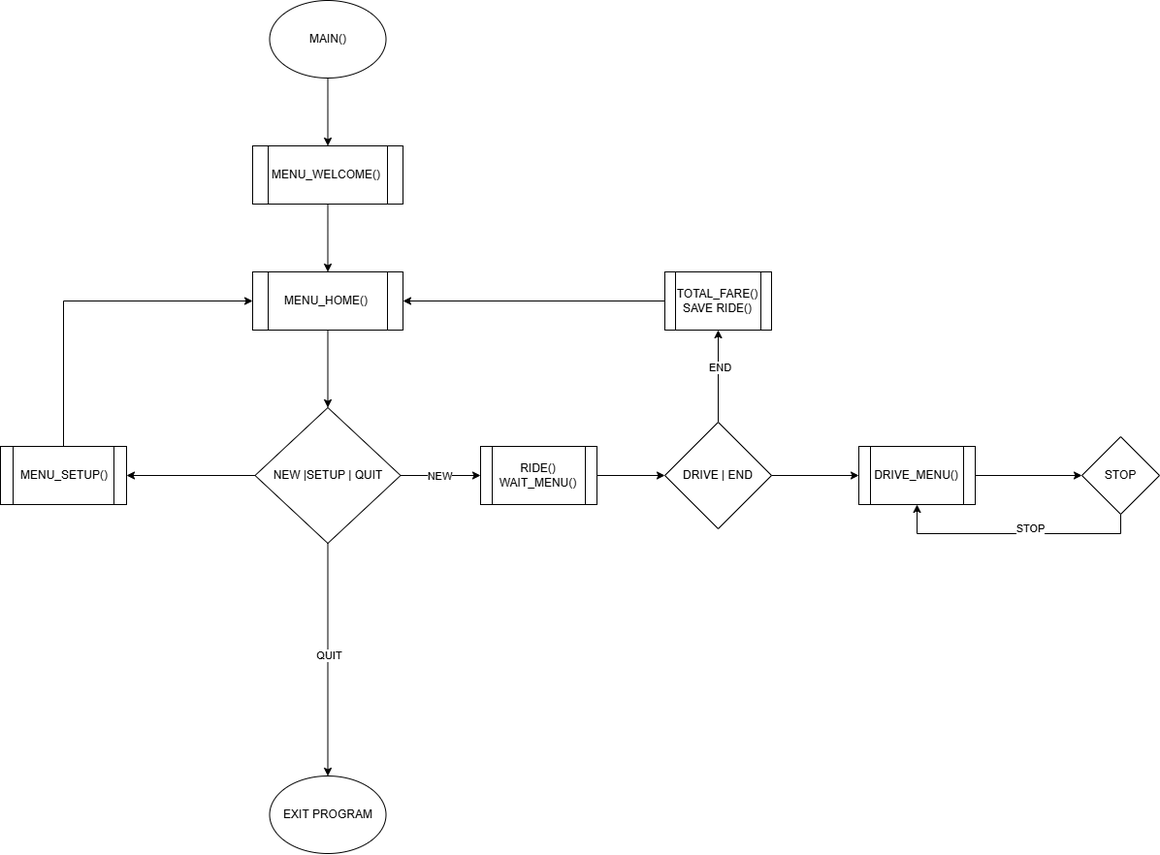
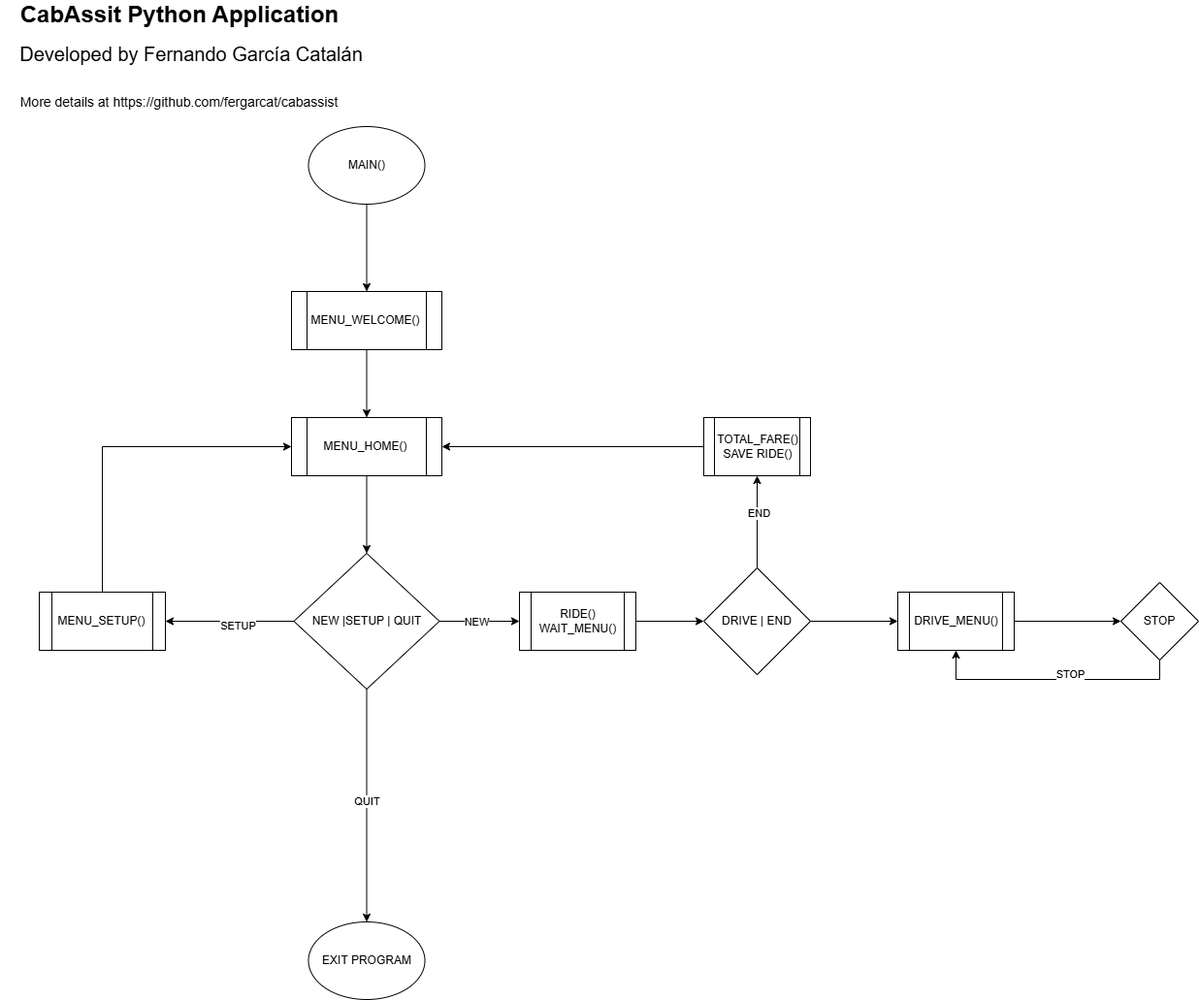
doc: flowchart update

diff --git a/CabAssist-FlowChart.html b/CabAssist-FlowChart.html
@@ -6,7 +6,7 @@
 <meta charset="utf-8"/>
 </head>
 <body>
-<div class="mxgraph" style="max-width:100%;border:1px solid transparent;" data-mxgraph="{&quot;highlight&quot;:&quot;#0000ff&quot;,&quot;nav&quot;:true,&quot;resize&quot;:true,&quot;xml&quot;:&quot;&lt;mxfile host=\&quot;app.diagrams.net\&quot; agent=\&quot;Mozilla/5.0 (Windows NT 10.0; Win64; x64) AppleWebKit/537.36 (KHTML, like Gecko) Chrome/132.0.0.0 Safari/537.36\&quot; version=\&quot;26.0.12\&quot;&gt;&lt;diagram name=\&quot;Page-1\&quot; id=\&quot;c7558073-3199-34d8-9f00-42111426c3f3\&quot;&gt;&lt;mxGraphModel dx=\&quot;2269\&quot; dy=\&quot;1200\&quot; grid=\&quot;1\&quot; gridSize=\&quot;10\&quot; guides=\&quot;1\&quot; tooltips=\&quot;1\&quot; connect=\&quot;1\&quot; arrows=\&quot;1\&quot; fold=\&quot;1\&quot; page=\&quot;1\&quot; pageScale=\&quot;1\&quot; pageWidth=\&quot;1654\&quot; pageHeight=\&quot;1169\&quot; background=\&quot;none\&quot; math=\&quot;0\&quot; shadow=\&quot;0\&quot;&gt;&lt;root&gt;&lt;mxCell id=\&quot;0\&quot;/&gt;&lt;mxCell id=\&quot;1\&quot; parent=\&quot;0\&quot;/&gt;&lt;mxCell id=\&quot;9vErsCvLsgAiDi58W-37-96\&quot; value=\&quot;MAIN()\&quot; style=\&quot;ellipse;whiteSpace=wrap;html=1;fontSize=12;\&quot; vertex=\&quot;1\&quot; parent=\&quot;1\&quot;&gt;&lt;mxGeometry x=\&quot;377.5\&quot; y=\&quot;80\&quot; width=\&quot;120\&quot; height=\&quot;80\&quot; as=\&quot;geometry\&quot;/&gt;&lt;/mxCell&gt;&lt;mxCell id=\&quot;9vErsCvLsgAiDi58W-37-137\&quot; style=\&quot;edgeStyle=orthogonalEdgeStyle;rounded=0;orthogonalLoop=1;jettySize=auto;html=1;exitX=0;exitY=0.5;exitDx=0;exitDy=0;\&quot; edge=\&quot;1\&quot; parent=\&quot;1\&quot; source=\&quot;9vErsCvLsgAiDi58W-37-99\&quot; target=\&quot;9vErsCvLsgAiDi58W-37-136\&quot;&gt;&lt;mxGeometry relative=\&quot;1\&quot; as=\&quot;geometry\&quot;/&gt;&lt;/mxCell&gt;&lt;mxCell id=\&quot;9vErsCvLsgAiDi58W-37-99\&quot; value=\&quot;NEW |SETUP | QUIT\&quot; style=\&quot;rhombus;whiteSpace=wrap;html=1;\&quot; vertex=\&quot;1\&quot; parent=\&quot;1\&quot;&gt;&lt;mxGeometry x=\&quot;362.5\&quot; y=\&quot;500\&quot; width=\&quot;150\&quot; height=\&quot;140\&quot; as=\&quot;geometry\&quot;/&gt;&lt;/mxCell&gt;&lt;mxCell id=\&quot;9vErsCvLsgAiDi58W-37-100\&quot; value=\&quot;EXIT PROGRAM\&quot; style=\&quot;ellipse;whiteSpace=wrap;html=1;\&quot; vertex=\&quot;1\&quot; parent=\&quot;1\&quot;&gt;&lt;mxGeometry x=\&quot;377.5\&quot; y=\&quot;880\&quot; width=\&quot;120\&quot; height=\&quot;80\&quot; as=\&quot;geometry\&quot;/&gt;&lt;/mxCell&gt;&lt;mxCell id=\&quot;9vErsCvLsgAiDi58W-37-101\&quot; value=\&quot;\&quot; style=\&quot;endArrow=classic;html=1;rounded=0;exitX=0.5;exitY=1;exitDx=0;exitDy=0;entryX=0.5;entryY=0;entryDx=0;entryDy=0;\&quot; edge=\&quot;1\&quot; parent=\&quot;1\&quot; source=\&quot;9vErsCvLsgAiDi58W-37-96\&quot; target=\&quot;9vErsCvLsgAiDi58W-37-119\&quot;&gt;&lt;mxGeometry width=\&quot;50\&quot; height=\&quot;50\&quot; relative=\&quot;1\&quot; as=\&quot;geometry\&quot;&gt;&lt;mxPoint x=\&quot;495\&quot; y=\&quot;160\&quot; as=\&quot;sourcePoint\&quot;/&gt;&lt;mxPoint x=\&quot;420\&quot; y=\&quot;220\&quot; as=\&quot;targetPoint\&quot;/&gt;&lt;/mxGeometry&gt;&lt;/mxCell&gt;&lt;mxCell id=\&quot;9vErsCvLsgAiDi58W-37-104\&quot; value=\&quot;\&quot; style=\&quot;endArrow=classic;html=1;rounded=0;exitX=0.5;exitY=1;exitDx=0;exitDy=0;entryX=0.5;entryY=0;entryDx=0;entryDy=0;\&quot; edge=\&quot;1\&quot; parent=\&quot;1\&quot; source=\&quot;9vErsCvLsgAiDi58W-37-119\&quot; target=\&quot;9vErsCvLsgAiDi58W-37-120\&quot;&gt;&lt;mxGeometry width=\&quot;50\&quot; height=\&quot;50\&quot; relative=\&quot;1\&quot; as=\&quot;geometry\&quot;&gt;&lt;mxPoint x=\&quot;420\&quot; y=\&quot;280\&quot; as=\&quot;sourcePoint\&quot;/&gt;&lt;mxPoint x=\&quot;420\&quot; y=\&quot;360\&quot; as=\&quot;targetPoint\&quot;/&gt;&lt;/mxGeometry&gt;&lt;/mxCell&gt;&lt;mxCell id=\&quot;9vErsCvLsgAiDi58W-37-105\&quot; value=\&quot;\&quot; style=\&quot;endArrow=classic;html=1;rounded=0;exitX=0.5;exitY=1;exitDx=0;exitDy=0;entryX=0.5;entryY=0;entryDx=0;entryDy=0;\&quot; edge=\&quot;1\&quot; parent=\&quot;1\&quot; source=\&quot;9vErsCvLsgAiDi58W-37-120\&quot; target=\&quot;9vErsCvLsgAiDi58W-37-99\&quot;&gt;&lt;mxGeometry width=\&quot;50\&quot; height=\&quot;50\&quot; relative=\&quot;1\&quot; as=\&quot;geometry\&quot;&gt;&lt;mxPoint x=\&quot;420\&quot; y=\&quot;420\&quot; as=\&quot;sourcePoint\&quot;/&gt;&lt;mxPoint x=\&quot;585\&quot; y=\&quot;410\&quot; as=\&quot;targetPoint\&quot;/&gt;&lt;/mxGeometry&gt;&lt;/mxCell&gt;&lt;mxCell id=\&quot;9vErsCvLsgAiDi58W-37-106\&quot; value=\&quot;\&quot; style=\&quot;endArrow=classic;html=1;rounded=0;exitX=0.5;exitY=1;exitDx=0;exitDy=0;entryX=0.5;entryY=0;entryDx=0;entryDy=0;\&quot; edge=\&quot;1\&quot; parent=\&quot;1\&quot; source=\&quot;9vErsCvLsgAiDi58W-37-99\&quot; target=\&quot;9vErsCvLsgAiDi58W-37-100\&quot;&gt;&lt;mxGeometry width=\&quot;50\&quot; height=\&quot;50\&quot; relative=\&quot;1\&quot; as=\&quot;geometry\&quot;&gt;&lt;mxPoint x=\&quot;485\&quot; y=\&quot;630\&quot; as=\&quot;sourcePoint\&quot;/&gt;&lt;mxPoint x=\&quot;535\&quot; y=\&quot;580\&quot; as=\&quot;targetPoint\&quot;/&gt;&lt;/mxGeometry&gt;&lt;/mxCell&gt;&lt;mxCell id=\&quot;9vErsCvLsgAiDi58W-37-122\&quot; value=\&quot;QUIT\&quot; style=\&quot;edgeLabel;html=1;align=center;verticalAlign=middle;resizable=0;points=[];\&quot; vertex=\&quot;1\&quot; connectable=\&quot;0\&quot; parent=\&quot;9vErsCvLsgAiDi58W-37-106\&quot;&gt;&lt;mxGeometry x=\&quot;-0.0474\&quot; relative=\&quot;1\&quot; as=\&quot;geometry\&quot;&gt;&lt;mxPoint as=\&quot;offset\&quot;/&gt;&lt;/mxGeometry&gt;&lt;/mxCell&gt;&lt;mxCell id=\&quot;9vErsCvLsgAiDi58W-37-113\&quot; style=\&quot;edgeStyle=orthogonalEdgeStyle;rounded=0;orthogonalLoop=1;jettySize=auto;html=1;exitX=1;exitY=0.5;exitDx=0;exitDy=0;entryX=0;entryY=0.5;entryDx=0;entryDy=0;\&quot; edge=\&quot;1\&quot; parent=\&quot;1\&quot; source=\&quot;9vErsCvLsgAiDi58W-37-121\&quot; target=\&quot;9vErsCvLsgAiDi58W-37-112\&quot;&gt;&lt;mxGeometry relative=\&quot;1\&quot; as=\&quot;geometry\&quot;&gt;&lt;mxPoint x=\&quot;708\&quot; y=\&quot;570\&quot; as=\&quot;sourcePoint\&quot;/&gt;&lt;/mxGeometry&gt;&lt;/mxCell&gt;&lt;mxCell id=\&quot;9vErsCvLsgAiDi58W-37-108\&quot; value=\&quot;\&quot; style=\&quot;endArrow=classic;html=1;rounded=0;exitX=1;exitY=0.5;exitDx=0;exitDy=0;entryX=0;entryY=0.5;entryDx=0;entryDy=0;\&quot; edge=\&quot;1\&quot; parent=\&quot;1\&quot; source=\&quot;9vErsCvLsgAiDi58W-37-99\&quot; target=\&quot;9vErsCvLsgAiDi58W-37-121\&quot;&gt;&lt;mxGeometry width=\&quot;50\&quot; height=\&quot;50\&quot; relative=\&quot;1\&quot; as=\&quot;geometry\&quot;&gt;&lt;mxPoint x=\&quot;505\&quot; y=\&quot;520\&quot; as=\&quot;sourcePoint\&quot;/&gt;&lt;mxPoint x=\&quot;588\&quot; y=\&quot;570\&quot; as=\&quot;targetPoint\&quot;/&gt;&lt;/mxGeometry&gt;&lt;/mxCell&gt;&lt;mxCell id=\&quot;9vErsCvLsgAiDi58W-37-116\&quot; value=\&quot;NEW\&quot; style=\&quot;edgeLabel;html=1;align=center;verticalAlign=middle;resizable=0;points=[];\&quot; vertex=\&quot;1\&quot; connectable=\&quot;0\&quot; parent=\&quot;9vErsCvLsgAiDi58W-37-108\&quot;&gt;&lt;mxGeometry x=\&quot;-0.062\&quot; relative=\&quot;1\&quot; as=\&quot;geometry\&quot;&gt;&lt;mxPoint x=\&quot;-1\&quot; as=\&quot;offset\&quot;/&gt;&lt;/mxGeometry&gt;&lt;/mxCell&gt;&lt;mxCell id=\&quot;9vErsCvLsgAiDi58W-37-132\&quot; style=\&quot;edgeStyle=orthogonalEdgeStyle;rounded=0;orthogonalLoop=1;jettySize=auto;html=1;exitX=0.5;exitY=0;exitDx=0;exitDy=0;entryX=0.5;entryY=1;entryDx=0;entryDy=0;\&quot; edge=\&quot;1\&quot; parent=\&quot;1\&quot; source=\&quot;9vErsCvLsgAiDi58W-37-112\&quot; target=\&quot;9vErsCvLsgAiDi58W-37-131\&quot;&gt;&lt;mxGeometry relative=\&quot;1\&quot; as=\&quot;geometry\&quot;/&gt;&lt;/mxCell&gt;&lt;mxCell id=\&quot;9vErsCvLsgAiDi58W-37-134\&quot; value=\&quot;END\&quot; style=\&quot;edgeLabel;html=1;align=center;verticalAlign=middle;resizable=0;points=[];\&quot; vertex=\&quot;1\&quot; connectable=\&quot;0\&quot; parent=\&quot;9vErsCvLsgAiDi58W-37-132\&quot;&gt;&lt;mxGeometry x=\&quot;0.2086\&quot; y=\&quot;-1\&quot; relative=\&quot;1\&quot; as=\&quot;geometry\&quot;&gt;&lt;mxPoint as=\&quot;offset\&quot;/&gt;&lt;/mxGeometry&gt;&lt;/mxCell&gt;&lt;mxCell id=\&quot;9vErsCvLsgAiDi58W-37-112\&quot; value=\&quot;DRIVE | END\&quot; style=\&quot;rhombus;whiteSpace=wrap;html=1;\&quot; vertex=\&quot;1\&quot; parent=\&quot;1\&quot;&gt;&lt;mxGeometry x=\&quot;785\&quot; y=\&quot;515\&quot; width=\&quot;110\&quot; height=\&quot;110\&quot; as=\&quot;geometry\&quot;/&gt;&lt;/mxCell&gt;&lt;mxCell id=\&quot;9vErsCvLsgAiDi58W-37-119\&quot; value=\&quot;MENU_WELCOME()\&quot; style=\&quot;shape=process;whiteSpace=wrap;html=1;backgroundOutline=1;\&quot; vertex=\&quot;1\&quot; parent=\&quot;1\&quot;&gt;&lt;mxGeometry x=\&quot;360\&quot; y=\&quot;230\&quot; width=\&quot;155\&quot; height=\&quot;60\&quot; as=\&quot;geometry\&quot;/&gt;&lt;/mxCell&gt;&lt;mxCell id=\&quot;9vErsCvLsgAiDi58W-37-120\&quot; value=\&quot;MENU_HOME()\&quot; style=\&quot;shape=process;whiteSpace=wrap;html=1;backgroundOutline=1;\&quot; vertex=\&quot;1\&quot; parent=\&quot;1\&quot;&gt;&lt;mxGeometry x=\&quot;360\&quot; y=\&quot;360\&quot; width=\&quot;155\&quot; height=\&quot;60\&quot; as=\&quot;geometry\&quot;/&gt;&lt;/mxCell&gt;&lt;mxCell id=\&quot;9vErsCvLsgAiDi58W-37-121\&quot; value=\&quot;RIDE()&amp;lt;div&amp;gt;WAIT_MENU()&amp;lt;/div&amp;gt;\&quot; style=\&quot;shape=process;whiteSpace=wrap;html=1;backgroundOutline=1;\&quot; vertex=\&quot;1\&quot; parent=\&quot;1\&quot;&gt;&lt;mxGeometry x=\&quot;595\&quot; y=\&quot;540\&quot; width=\&quot;120\&quot; height=\&quot;60\&quot; as=\&quot;geometry\&quot;/&gt;&lt;/mxCell&gt;&lt;mxCell id=\&quot;9vErsCvLsgAiDi58W-37-125\&quot; value=\&quot;DRIVE_MENU()\&quot; style=\&quot;shape=process;whiteSpace=wrap;html=1;backgroundOutline=1;\&quot; vertex=\&quot;1\&quot; parent=\&quot;1\&quot;&gt;&lt;mxGeometry x=\&quot;985\&quot; y=\&quot;540\&quot; width=\&quot;120\&quot; height=\&quot;60\&quot; as=\&quot;geometry\&quot;/&gt;&lt;/mxCell&gt;&lt;mxCell id=\&quot;9vErsCvLsgAiDi58W-37-126\&quot; value=\&quot;STOP\&quot; style=\&quot;rhombus;whiteSpace=wrap;html=1;\&quot; vertex=\&quot;1\&quot; parent=\&quot;1\&quot;&gt;&lt;mxGeometry x=\&quot;1215\&quot; y=\&quot;530\&quot; width=\&quot;80\&quot; height=\&quot;80\&quot; as=\&quot;geometry\&quot;/&gt;&lt;/mxCell&gt;&lt;mxCell id=\&quot;9vErsCvLsgAiDi58W-37-127\&quot; value=\&quot;\&quot; style=\&quot;endArrow=classic;html=1;rounded=0;exitX=1;exitY=0.5;exitDx=0;exitDy=0;entryX=0;entryY=0.5;entryDx=0;entryDy=0;\&quot; edge=\&quot;1\&quot; parent=\&quot;1\&quot; source=\&quot;9vErsCvLsgAiDi58W-37-112\&quot; target=\&quot;9vErsCvLsgAiDi58W-37-125\&quot;&gt;&lt;mxGeometry width=\&quot;50\&quot; height=\&quot;50\&quot; relative=\&quot;1\&quot; as=\&quot;geometry\&quot;&gt;&lt;mxPoint x=\&quot;905\&quot; y=\&quot;530\&quot; as=\&quot;sourcePoint\&quot;/&gt;&lt;mxPoint x=\&quot;955\&quot; y=\&quot;480\&quot; as=\&quot;targetPoint\&quot;/&gt;&lt;/mxGeometry&gt;&lt;/mxCell&gt;&lt;mxCell id=\&quot;9vErsCvLsgAiDi58W-37-128\&quot; value=\&quot;\&quot; style=\&quot;endArrow=classic;html=1;rounded=0;exitX=1;exitY=0.5;exitDx=0;exitDy=0;entryX=0;entryY=0.5;entryDx=0;entryDy=0;\&quot; edge=\&quot;1\&quot; parent=\&quot;1\&quot; source=\&quot;9vErsCvLsgAiDi58W-37-125\&quot; target=\&quot;9vErsCvLsgAiDi58W-37-126\&quot;&gt;&lt;mxGeometry width=\&quot;50\&quot; height=\&quot;50\&quot; relative=\&quot;1\&quot; as=\&quot;geometry\&quot;&gt;&lt;mxPoint x=\&quot;1155\&quot; y=\&quot;560\&quot; as=\&quot;sourcePoint\&quot;/&gt;&lt;mxPoint x=\&quot;1205\&quot; y=\&quot;510\&quot; as=\&quot;targetPoint\&quot;/&gt;&lt;/mxGeometry&gt;&lt;/mxCell&gt;&lt;mxCell id=\&quot;9vErsCvLsgAiDi58W-37-129\&quot; style=\&quot;edgeStyle=orthogonalEdgeStyle;rounded=0;orthogonalLoop=1;jettySize=auto;html=1;entryX=0.5;entryY=1;entryDx=0;entryDy=0;\&quot; edge=\&quot;1\&quot; parent=\&quot;1\&quot; source=\&quot;9vErsCvLsgAiDi58W-37-126\&quot; target=\&quot;9vErsCvLsgAiDi58W-37-125\&quot;&gt;&lt;mxGeometry relative=\&quot;1\&quot; as=\&quot;geometry\&quot;&gt;&lt;Array as=\&quot;points\&quot;&gt;&lt;mxPoint x=\&quot;1255\&quot; y=\&quot;630\&quot;/&gt;&lt;mxPoint x=\&quot;1045\&quot; y=\&quot;630\&quot;/&gt;&lt;/Array&gt;&lt;/mxGeometry&gt;&lt;/mxCell&gt;&lt;mxCell id=\&quot;9vErsCvLsgAiDi58W-37-130\&quot; value=\&quot;STOP\&quot; style=\&quot;edgeLabel;html=1;align=center;verticalAlign=middle;resizable=0;points=[];\&quot; vertex=\&quot;1\&quot; connectable=\&quot;0\&quot; parent=\&quot;9vErsCvLsgAiDi58W-37-129\&quot;&gt;&lt;mxGeometry x=\&quot;-0.1247\&quot; y=\&quot;-6\&quot; relative=\&quot;1\&quot; as=\&quot;geometry\&quot;&gt;&lt;mxPoint as=\&quot;offset\&quot;/&gt;&lt;/mxGeometry&gt;&lt;/mxCell&gt;&lt;mxCell id=\&quot;9vErsCvLsgAiDi58W-37-133\&quot; style=\&quot;edgeStyle=orthogonalEdgeStyle;rounded=0;orthogonalLoop=1;jettySize=auto;html=1;exitX=0;exitY=0.5;exitDx=0;exitDy=0;entryX=1;entryY=0.5;entryDx=0;entryDy=0;\&quot; edge=\&quot;1\&quot; parent=\&quot;1\&quot; source=\&quot;9vErsCvLsgAiDi58W-37-131\&quot; target=\&quot;9vErsCvLsgAiDi58W-37-120\&quot;&gt;&lt;mxGeometry relative=\&quot;1\&quot; as=\&quot;geometry\&quot;/&gt;&lt;/mxCell&gt;&lt;mxCell id=\&quot;9vErsCvLsgAiDi58W-37-131\&quot; value=\&quot;&amp;lt;div&amp;gt;TOTAL_FARE()&amp;lt;/div&amp;gt;SAVE RIDE()\&quot; style=\&quot;shape=process;whiteSpace=wrap;html=1;backgroundOutline=1;\&quot; vertex=\&quot;1\&quot; parent=\&quot;1\&quot;&gt;&lt;mxGeometry x=\&quot;785\&quot; y=\&quot;360\&quot; width=\&quot;110\&quot; height=\&quot;60\&quot; as=\&quot;geometry\&quot;/&gt;&lt;/mxCell&gt;&lt;mxCell id=\&quot;9vErsCvLsgAiDi58W-37-138\&quot; style=\&quot;edgeStyle=orthogonalEdgeStyle;rounded=0;orthogonalLoop=1;jettySize=auto;html=1;exitX=0.5;exitY=0;exitDx=0;exitDy=0;entryX=0;entryY=0.5;entryDx=0;entryDy=0;\&quot; edge=\&quot;1\&quot; parent=\&quot;1\&quot; source=\&quot;9vErsCvLsgAiDi58W-37-136\&quot; target=\&quot;9vErsCvLsgAiDi58W-37-120\&quot;&gt;&lt;mxGeometry relative=\&quot;1\&quot; as=\&quot;geometry\&quot;&gt;&lt;mxPoint x=\&quot;165.69230769230762\&quot; y=\&quot;400\&quot; as=\&quot;targetPoint\&quot;/&gt;&lt;/mxGeometry&gt;&lt;/mxCell&gt;&lt;mxCell id=\&quot;9vErsCvLsgAiDi58W-37-136\&quot; value=\&quot;MENU_SETUP()\&quot; style=\&quot;shape=process;whiteSpace=wrap;html=1;backgroundOutline=1;\&quot; vertex=\&quot;1\&quot; parent=\&quot;1\&quot;&gt;&lt;mxGeometry x=\&quot;100\&quot; y=\&quot;540\&quot; width=\&quot;130\&quot; height=\&quot;60\&quot; as=\&quot;geometry\&quot;/&gt;&lt;/mxCell&gt;&lt;/root&gt;&lt;/mxGraphModel&gt;&lt;/diagram&gt;&lt;/mxfile&gt;&quot;,&quot;toolbar&quot;:&quot;pages zoom layers lightbox&quot;,&quot;page&quot;:0}"></div>
+<div class="mxgraph" style="max-width:100%;border:1px solid transparent;" data-mxgraph="{&quot;highlight&quot;:&quot;#0000ff&quot;,&quot;nav&quot;:true,&quot;resize&quot;:true,&quot;xml&quot;:&quot;&lt;mxfile host=\&quot;app.diagrams.net\&quot; agent=\&quot;Mozilla/5.0 (Windows NT 10.0; Win64; x64) AppleWebKit/537.36 (KHTML, like Gecko) Chrome/132.0.0.0 Safari/537.36\&quot; version=\&quot;26.0.12\&quot;&gt;&lt;diagram name=\&quot;Page-1\&quot; id=\&quot;c7558073-3199-34d8-9f00-42111426c3f3\&quot;&gt;&lt;mxGraphModel dx=\&quot;1323\&quot; dy=\&quot;700\&quot; grid=\&quot;1\&quot; gridSize=\&quot;10\&quot; guides=\&quot;1\&quot; tooltips=\&quot;1\&quot; connect=\&quot;1\&quot; arrows=\&quot;1\&quot; fold=\&quot;1\&quot; page=\&quot;1\&quot; pageScale=\&quot;1\&quot; pageWidth=\&quot;1654\&quot; pageHeight=\&quot;1169\&quot; background=\&quot;none\&quot; math=\&quot;0\&quot; shadow=\&quot;0\&quot;&gt;&lt;root&gt;&lt;mxCell id=\&quot;0\&quot;/&gt;&lt;mxCell id=\&quot;1\&quot; parent=\&quot;0\&quot;/&gt;&lt;mxCell id=\&quot;9vErsCvLsgAiDi58W-37-96\&quot; value=\&quot;MAIN()\&quot; style=\&quot;ellipse;whiteSpace=wrap;html=1;fontSize=12;\&quot; vertex=\&quot;1\&quot; parent=\&quot;1\&quot;&gt;&lt;mxGeometry x=\&quot;377.5\&quot; y=\&quot;160\&quot; width=\&quot;120\&quot; height=\&quot;80\&quot; as=\&quot;geometry\&quot;/&gt;&lt;/mxCell&gt;&lt;mxCell id=\&quot;9vErsCvLsgAiDi58W-37-137\&quot; style=\&quot;edgeStyle=orthogonalEdgeStyle;rounded=0;orthogonalLoop=1;jettySize=auto;html=1;exitX=0;exitY=0.5;exitDx=0;exitDy=0;\&quot; edge=\&quot;1\&quot; parent=\&quot;1\&quot; source=\&quot;9vErsCvLsgAiDi58W-37-99\&quot; target=\&quot;9vErsCvLsgAiDi58W-37-136\&quot;&gt;&lt;mxGeometry relative=\&quot;1\&quot; as=\&quot;geometry\&quot;/&gt;&lt;/mxCell&gt;&lt;mxCell id=\&quot;9vErsCvLsgAiDi58W-37-141\&quot; value=\&quot;SETUP\&quot; style=\&quot;edgeLabel;html=1;align=center;verticalAlign=middle;resizable=0;points=[];\&quot; vertex=\&quot;1\&quot; connectable=\&quot;0\&quot; parent=\&quot;9vErsCvLsgAiDi58W-37-137\&quot;&gt;&lt;mxGeometry x=\&quot;-0.1152\&quot; y=\&quot;4\&quot; relative=\&quot;1\&quot; as=\&quot;geometry\&quot;&gt;&lt;mxPoint as=\&quot;offset\&quot;/&gt;&lt;/mxGeometry&gt;&lt;/mxCell&gt;&lt;mxCell id=\&quot;9vErsCvLsgAiDi58W-37-99\&quot; value=\&quot;NEW |SETUP | QUIT\&quot; style=\&quot;rhombus;whiteSpace=wrap;html=1;\&quot; vertex=\&quot;1\&quot; parent=\&quot;1\&quot;&gt;&lt;mxGeometry x=\&quot;362.5\&quot; y=\&quot;600\&quot; width=\&quot;150\&quot; height=\&quot;140\&quot; as=\&quot;geometry\&quot;/&gt;&lt;/mxCell&gt;&lt;mxCell id=\&quot;9vErsCvLsgAiDi58W-37-100\&quot; value=\&quot;EXIT PROGRAM\&quot; style=\&quot;ellipse;whiteSpace=wrap;html=1;\&quot; vertex=\&quot;1\&quot; parent=\&quot;1\&quot;&gt;&lt;mxGeometry x=\&quot;377.5\&quot; y=\&quot;980\&quot; width=\&quot;120\&quot; height=\&quot;80\&quot; as=\&quot;geometry\&quot;/&gt;&lt;/mxCell&gt;&lt;mxCell id=\&quot;9vErsCvLsgAiDi58W-37-101\&quot; value=\&quot;\&quot; style=\&quot;endArrow=classic;html=1;rounded=0;exitX=0.5;exitY=1;exitDx=0;exitDy=0;entryX=0.5;entryY=0;entryDx=0;entryDy=0;\&quot; edge=\&quot;1\&quot; parent=\&quot;1\&quot; source=\&quot;9vErsCvLsgAiDi58W-37-96\&quot; target=\&quot;9vErsCvLsgAiDi58W-37-119\&quot;&gt;&lt;mxGeometry width=\&quot;50\&quot; height=\&quot;50\&quot; relative=\&quot;1\&quot; as=\&quot;geometry\&quot;&gt;&lt;mxPoint x=\&quot;437.5\&quot; y=\&quot;260\&quot; as=\&quot;sourcePoint\&quot;/&gt;&lt;mxPoint x=\&quot;420\&quot; y=\&quot;320\&quot; as=\&quot;targetPoint\&quot;/&gt;&lt;/mxGeometry&gt;&lt;/mxCell&gt;&lt;mxCell id=\&quot;9vErsCvLsgAiDi58W-37-104\&quot; value=\&quot;\&quot; style=\&quot;endArrow=classic;html=1;rounded=0;exitX=0.5;exitY=1;exitDx=0;exitDy=0;entryX=0.5;entryY=0;entryDx=0;entryDy=0;\&quot; edge=\&quot;1\&quot; parent=\&quot;1\&quot; source=\&quot;9vErsCvLsgAiDi58W-37-119\&quot; target=\&quot;9vErsCvLsgAiDi58W-37-120\&quot;&gt;&lt;mxGeometry width=\&quot;50\&quot; height=\&quot;50\&quot; relative=\&quot;1\&quot; as=\&quot;geometry\&quot;&gt;&lt;mxPoint x=\&quot;420\&quot; y=\&quot;380\&quot; as=\&quot;sourcePoint\&quot;/&gt;&lt;mxPoint x=\&quot;420\&quot; y=\&quot;460\&quot; as=\&quot;targetPoint\&quot;/&gt;&lt;/mxGeometry&gt;&lt;/mxCell&gt;&lt;mxCell id=\&quot;9vErsCvLsgAiDi58W-37-105\&quot; value=\&quot;\&quot; style=\&quot;endArrow=classic;html=1;rounded=0;exitX=0.5;exitY=1;exitDx=0;exitDy=0;entryX=0.5;entryY=0;entryDx=0;entryDy=0;\&quot; edge=\&quot;1\&quot; parent=\&quot;1\&quot; source=\&quot;9vErsCvLsgAiDi58W-37-120\&quot; target=\&quot;9vErsCvLsgAiDi58W-37-99\&quot;&gt;&lt;mxGeometry width=\&quot;50\&quot; height=\&quot;50\&quot; relative=\&quot;1\&quot; as=\&quot;geometry\&quot;&gt;&lt;mxPoint x=\&quot;420\&quot; y=\&quot;520\&quot; as=\&quot;sourcePoint\&quot;/&gt;&lt;mxPoint x=\&quot;585\&quot; y=\&quot;510\&quot; as=\&quot;targetPoint\&quot;/&gt;&lt;/mxGeometry&gt;&lt;/mxCell&gt;&lt;mxCell id=\&quot;9vErsCvLsgAiDi58W-37-106\&quot; value=\&quot;\&quot; style=\&quot;endArrow=classic;html=1;rounded=0;exitX=0.5;exitY=1;exitDx=0;exitDy=0;entryX=0.5;entryY=0;entryDx=0;entryDy=0;\&quot; edge=\&quot;1\&quot; parent=\&quot;1\&quot; source=\&quot;9vErsCvLsgAiDi58W-37-99\&quot; target=\&quot;9vErsCvLsgAiDi58W-37-100\&quot;&gt;&lt;mxGeometry width=\&quot;50\&quot; height=\&quot;50\&quot; relative=\&quot;1\&quot; as=\&quot;geometry\&quot;&gt;&lt;mxPoint x=\&quot;485\&quot; y=\&quot;730\&quot; as=\&quot;sourcePoint\&quot;/&gt;&lt;mxPoint x=\&quot;535\&quot; y=\&quot;680\&quot; as=\&quot;targetPoint\&quot;/&gt;&lt;/mxGeometry&gt;&lt;/mxCell&gt;&lt;mxCell id=\&quot;9vErsCvLsgAiDi58W-37-122\&quot; value=\&quot;QUIT\&quot; style=\&quot;edgeLabel;html=1;align=center;verticalAlign=middle;resizable=0;points=[];\&quot; vertex=\&quot;1\&quot; connectable=\&quot;0\&quot; parent=\&quot;9vErsCvLsgAiDi58W-37-106\&quot;&gt;&lt;mxGeometry x=\&quot;-0.0474\&quot; relative=\&quot;1\&quot; as=\&quot;geometry\&quot;&gt;&lt;mxPoint as=\&quot;offset\&quot;/&gt;&lt;/mxGeometry&gt;&lt;/mxCell&gt;&lt;mxCell id=\&quot;9vErsCvLsgAiDi58W-37-113\&quot; style=\&quot;edgeStyle=orthogonalEdgeStyle;rounded=0;orthogonalLoop=1;jettySize=auto;html=1;exitX=1;exitY=0.5;exitDx=0;exitDy=0;entryX=0;entryY=0.5;entryDx=0;entryDy=0;\&quot; edge=\&quot;1\&quot; parent=\&quot;1\&quot; source=\&quot;9vErsCvLsgAiDi58W-37-121\&quot; target=\&quot;9vErsCvLsgAiDi58W-37-112\&quot;&gt;&lt;mxGeometry relative=\&quot;1\&quot; as=\&quot;geometry\&quot;&gt;&lt;mxPoint x=\&quot;708\&quot; y=\&quot;670\&quot; as=\&quot;sourcePoint\&quot;/&gt;&lt;/mxGeometry&gt;&lt;/mxCell&gt;&lt;mxCell id=\&quot;9vErsCvLsgAiDi58W-37-108\&quot; value=\&quot;\&quot; style=\&quot;endArrow=classic;html=1;rounded=0;exitX=1;exitY=0.5;exitDx=0;exitDy=0;entryX=0;entryY=0.5;entryDx=0;entryDy=0;\&quot; edge=\&quot;1\&quot; parent=\&quot;1\&quot; source=\&quot;9vErsCvLsgAiDi58W-37-99\&quot; target=\&quot;9vErsCvLsgAiDi58W-37-121\&quot;&gt;&lt;mxGeometry width=\&quot;50\&quot; height=\&quot;50\&quot; relative=\&quot;1\&quot; as=\&quot;geometry\&quot;&gt;&lt;mxPoint x=\&quot;505\&quot; y=\&quot;620\&quot; as=\&quot;sourcePoint\&quot;/&gt;&lt;mxPoint x=\&quot;588\&quot; y=\&quot;670\&quot; as=\&quot;targetPoint\&quot;/&gt;&lt;/mxGeometry&gt;&lt;/mxCell&gt;&lt;mxCell id=\&quot;9vErsCvLsgAiDi58W-37-116\&quot; value=\&quot;NEW\&quot; style=\&quot;edgeLabel;html=1;align=center;verticalAlign=middle;resizable=0;points=[];\&quot; vertex=\&quot;1\&quot; connectable=\&quot;0\&quot; parent=\&quot;9vErsCvLsgAiDi58W-37-108\&quot;&gt;&lt;mxGeometry x=\&quot;-0.062\&quot; relative=\&quot;1\&quot; as=\&quot;geometry\&quot;&gt;&lt;mxPoint x=\&quot;-1\&quot; as=\&quot;offset\&quot;/&gt;&lt;/mxGeometry&gt;&lt;/mxCell&gt;&lt;mxCell id=\&quot;9vErsCvLsgAiDi58W-37-132\&quot; style=\&quot;edgeStyle=orthogonalEdgeStyle;rounded=0;orthogonalLoop=1;jettySize=auto;html=1;exitX=0.5;exitY=0;exitDx=0;exitDy=0;entryX=0.5;entryY=1;entryDx=0;entryDy=0;\&quot; edge=\&quot;1\&quot; parent=\&quot;1\&quot; source=\&quot;9vErsCvLsgAiDi58W-37-112\&quot; target=\&quot;9vErsCvLsgAiDi58W-37-131\&quot;&gt;&lt;mxGeometry relative=\&quot;1\&quot; as=\&quot;geometry\&quot;/&gt;&lt;/mxCell&gt;&lt;mxCell id=\&quot;9vErsCvLsgAiDi58W-37-134\&quot; value=\&quot;END\&quot; style=\&quot;edgeLabel;html=1;align=center;verticalAlign=middle;resizable=0;points=[];\&quot; vertex=\&quot;1\&quot; connectable=\&quot;0\&quot; parent=\&quot;9vErsCvLsgAiDi58W-37-132\&quot;&gt;&lt;mxGeometry x=\&quot;0.2086\&quot; y=\&quot;-1\&quot; relative=\&quot;1\&quot; as=\&quot;geometry\&quot;&gt;&lt;mxPoint as=\&quot;offset\&quot;/&gt;&lt;/mxGeometry&gt;&lt;/mxCell&gt;&lt;mxCell id=\&quot;9vErsCvLsgAiDi58W-37-112\&quot; value=\&quot;DRIVE | END\&quot; style=\&quot;rhombus;whiteSpace=wrap;html=1;\&quot; vertex=\&quot;1\&quot; parent=\&quot;1\&quot;&gt;&lt;mxGeometry x=\&quot;785\&quot; y=\&quot;615\&quot; width=\&quot;110\&quot; height=\&quot;110\&quot; as=\&quot;geometry\&quot;/&gt;&lt;/mxCell&gt;&lt;mxCell id=\&quot;9vErsCvLsgAiDi58W-37-119\&quot; value=\&quot;MENU_WELCOME()\&quot; style=\&quot;shape=process;whiteSpace=wrap;html=1;backgroundOutline=1;\&quot; vertex=\&quot;1\&quot; parent=\&quot;1\&quot;&gt;&lt;mxGeometry x=\&quot;360\&quot; y=\&quot;330\&quot; width=\&quot;155\&quot; height=\&quot;60\&quot; as=\&quot;geometry\&quot;/&gt;&lt;/mxCell&gt;&lt;mxCell id=\&quot;9vErsCvLsgAiDi58W-37-120\&quot; value=\&quot;MENU_HOME()\&quot; style=\&quot;shape=process;whiteSpace=wrap;html=1;backgroundOutline=1;\&quot; vertex=\&quot;1\&quot; parent=\&quot;1\&quot;&gt;&lt;mxGeometry x=\&quot;360\&quot; y=\&quot;460\&quot; width=\&quot;155\&quot; height=\&quot;60\&quot; as=\&quot;geometry\&quot;/&gt;&lt;/mxCell&gt;&lt;mxCell id=\&quot;9vErsCvLsgAiDi58W-37-121\&quot; value=\&quot;RIDE()&amp;lt;div&amp;gt;WAIT_MENU()&amp;lt;/div&amp;gt;\&quot; style=\&quot;shape=process;whiteSpace=wrap;html=1;backgroundOutline=1;\&quot; vertex=\&quot;1\&quot; parent=\&quot;1\&quot;&gt;&lt;mxGeometry x=\&quot;595\&quot; y=\&quot;640\&quot; width=\&quot;120\&quot; height=\&quot;60\&quot; as=\&quot;geometry\&quot;/&gt;&lt;/mxCell&gt;&lt;mxCell id=\&quot;9vErsCvLsgAiDi58W-37-125\&quot; value=\&quot;DRIVE_MENU()\&quot; style=\&quot;shape=process;whiteSpace=wrap;html=1;backgroundOutline=1;\&quot; vertex=\&quot;1\&quot; parent=\&quot;1\&quot;&gt;&lt;mxGeometry x=\&quot;985\&quot; y=\&quot;640\&quot; width=\&quot;120\&quot; height=\&quot;60\&quot; as=\&quot;geometry\&quot;/&gt;&lt;/mxCell&gt;&lt;mxCell id=\&quot;9vErsCvLsgAiDi58W-37-126\&quot; value=\&quot;STOP\&quot; style=\&quot;rhombus;whiteSpace=wrap;html=1;\&quot; vertex=\&quot;1\&quot; parent=\&quot;1\&quot;&gt;&lt;mxGeometry x=\&quot;1215\&quot; y=\&quot;630\&quot; width=\&quot;80\&quot; height=\&quot;80\&quot; as=\&quot;geometry\&quot;/&gt;&lt;/mxCell&gt;&lt;mxCell id=\&quot;9vErsCvLsgAiDi58W-37-127\&quot; value=\&quot;\&quot; style=\&quot;endArrow=classic;html=1;rounded=0;exitX=1;exitY=0.5;exitDx=0;exitDy=0;entryX=0;entryY=0.5;entryDx=0;entryDy=0;\&quot; edge=\&quot;1\&quot; parent=\&quot;1\&quot; source=\&quot;9vErsCvLsgAiDi58W-37-112\&quot; target=\&quot;9vErsCvLsgAiDi58W-37-125\&quot;&gt;&lt;mxGeometry width=\&quot;50\&quot; height=\&quot;50\&quot; relative=\&quot;1\&quot; as=\&quot;geometry\&quot;&gt;&lt;mxPoint x=\&quot;905\&quot; y=\&quot;630\&quot; as=\&quot;sourcePoint\&quot;/&gt;&lt;mxPoint x=\&quot;955\&quot; y=\&quot;580\&quot; as=\&quot;targetPoint\&quot;/&gt;&lt;/mxGeometry&gt;&lt;/mxCell&gt;&lt;mxCell id=\&quot;9vErsCvLsgAiDi58W-37-128\&quot; value=\&quot;\&quot; style=\&quot;endArrow=classic;html=1;rounded=0;exitX=1;exitY=0.5;exitDx=0;exitDy=0;entryX=0;entryY=0.5;entryDx=0;entryDy=0;\&quot; edge=\&quot;1\&quot; parent=\&quot;1\&quot; source=\&quot;9vErsCvLsgAiDi58W-37-125\&quot; target=\&quot;9vErsCvLsgAiDi58W-37-126\&quot;&gt;&lt;mxGeometry width=\&quot;50\&quot; height=\&quot;50\&quot; relative=\&quot;1\&quot; as=\&quot;geometry\&quot;&gt;&lt;mxPoint x=\&quot;1155\&quot; y=\&quot;660\&quot; as=\&quot;sourcePoint\&quot;/&gt;&lt;mxPoint x=\&quot;1205\&quot; y=\&quot;610\&quot; as=\&quot;targetPoint\&quot;/&gt;&lt;/mxGeometry&gt;&lt;/mxCell&gt;&lt;mxCell id=\&quot;9vErsCvLsgAiDi58W-37-129\&quot; style=\&quot;edgeStyle=orthogonalEdgeStyle;rounded=0;orthogonalLoop=1;jettySize=auto;html=1;entryX=0.5;entryY=1;entryDx=0;entryDy=0;\&quot; edge=\&quot;1\&quot; parent=\&quot;1\&quot; source=\&quot;9vErsCvLsgAiDi58W-37-126\&quot; target=\&quot;9vErsCvLsgAiDi58W-37-125\&quot;&gt;&lt;mxGeometry relative=\&quot;1\&quot; as=\&quot;geometry\&quot;&gt;&lt;Array as=\&quot;points\&quot;&gt;&lt;mxPoint x=\&quot;1255\&quot; y=\&quot;730\&quot;/&gt;&lt;mxPoint x=\&quot;1045\&quot; y=\&quot;730\&quot;/&gt;&lt;/Array&gt;&lt;/mxGeometry&gt;&lt;/mxCell&gt;&lt;mxCell id=\&quot;9vErsCvLsgAiDi58W-37-130\&quot; value=\&quot;STOP\&quot; style=\&quot;edgeLabel;html=1;align=center;verticalAlign=middle;resizable=0;points=[];\&quot; vertex=\&quot;1\&quot; connectable=\&quot;0\&quot; parent=\&quot;9vErsCvLsgAiDi58W-37-129\&quot;&gt;&lt;mxGeometry x=\&quot;-0.1247\&quot; y=\&quot;-6\&quot; relative=\&quot;1\&quot; as=\&quot;geometry\&quot;&gt;&lt;mxPoint as=\&quot;offset\&quot;/&gt;&lt;/mxGeometry&gt;&lt;/mxCell&gt;&lt;mxCell id=\&quot;9vErsCvLsgAiDi58W-37-133\&quot; style=\&quot;edgeStyle=orthogonalEdgeStyle;rounded=0;orthogonalLoop=1;jettySize=auto;html=1;exitX=0;exitY=0.5;exitDx=0;exitDy=0;entryX=1;entryY=0.5;entryDx=0;entryDy=0;\&quot; edge=\&quot;1\&quot; parent=\&quot;1\&quot; source=\&quot;9vErsCvLsgAiDi58W-37-131\&quot; target=\&quot;9vErsCvLsgAiDi58W-37-120\&quot;&gt;&lt;mxGeometry relative=\&quot;1\&quot; as=\&quot;geometry\&quot;/&gt;&lt;/mxCell&gt;&lt;mxCell id=\&quot;9vErsCvLsgAiDi58W-37-131\&quot; value=\&quot;&amp;lt;div&amp;gt;TOTAL_FARE()&amp;lt;/div&amp;gt;SAVE RIDE()\&quot; style=\&quot;shape=process;whiteSpace=wrap;html=1;backgroundOutline=1;\&quot; vertex=\&quot;1\&quot; parent=\&quot;1\&quot;&gt;&lt;mxGeometry x=\&quot;785\&quot; y=\&quot;460\&quot; width=\&quot;110\&quot; height=\&quot;60\&quot; as=\&quot;geometry\&quot;/&gt;&lt;/mxCell&gt;&lt;mxCell id=\&quot;9vErsCvLsgAiDi58W-37-138\&quot; style=\&quot;edgeStyle=orthogonalEdgeStyle;rounded=0;orthogonalLoop=1;jettySize=auto;html=1;exitX=0.5;exitY=0;exitDx=0;exitDy=0;entryX=0;entryY=0.5;entryDx=0;entryDy=0;\&quot; edge=\&quot;1\&quot; parent=\&quot;1\&quot; source=\&quot;9vErsCvLsgAiDi58W-37-136\&quot; target=\&quot;9vErsCvLsgAiDi58W-37-120\&quot;&gt;&lt;mxGeometry relative=\&quot;1\&quot; as=\&quot;geometry\&quot;&gt;&lt;mxPoint x=\&quot;165.69230769230762\&quot; y=\&quot;500\&quot; as=\&quot;targetPoint\&quot;/&gt;&lt;/mxGeometry&gt;&lt;/mxCell&gt;&lt;mxCell id=\&quot;9vErsCvLsgAiDi58W-37-136\&quot; value=\&quot;MENU_SETUP()\&quot; style=\&quot;shape=process;whiteSpace=wrap;html=1;backgroundOutline=1;\&quot; vertex=\&quot;1\&quot; parent=\&quot;1\&quot;&gt;&lt;mxGeometry x=\&quot;100\&quot; y=\&quot;640\&quot; width=\&quot;130\&quot; height=\&quot;60\&quot; as=\&quot;geometry\&quot;/&gt;&lt;/mxCell&gt;&lt;mxCell id=\&quot;9vErsCvLsgAiDi58W-37-142\&quot; value=\&quot;CabAssit Python Application\&quot; style=\&quot;text;html=1;align=center;verticalAlign=middle;whiteSpace=wrap;rounded=0;fontStyle=1;fontSize=24;\&quot; vertex=\&quot;1\&quot; parent=\&quot;1\&quot;&gt;&lt;mxGeometry x=\&quot;60\&quot; y=\&quot;30\&quot; width=\&quot;370\&quot; height=\&quot;30\&quot; as=\&quot;geometry\&quot;/&gt;&lt;/mxCell&gt;&lt;mxCell id=\&quot;9vErsCvLsgAiDi58W-37-143\&quot; value=\&quot;Developed by Fernando García Catalán\&quot; style=\&quot;text;html=1;align=center;verticalAlign=middle;whiteSpace=wrap;rounded=0;fontSize=20;\&quot; vertex=\&quot;1\&quot; parent=\&quot;1\&quot;&gt;&lt;mxGeometry x=\&quot;72.5\&quot; y=\&quot;70\&quot; width=\&quot;367.5\&quot; height=\&quot;30\&quot; as=\&quot;geometry\&quot;/&gt;&lt;/mxCell&gt;&lt;mxCell id=\&quot;9vErsCvLsgAiDi58W-37-144\&quot; value=\&quot;More details at https://github.com/fergarcat/cabassist\&quot; style=\&quot;text;html=1;align=center;verticalAlign=middle;whiteSpace=wrap;rounded=0;fontSize=14;\&quot; vertex=\&quot;1\&quot; parent=\&quot;1\&quot;&gt;&lt;mxGeometry x=\&quot;72.5\&quot; y=\&quot;120\&quot; width=\&quot;342.5\&quot; height=\&quot;30\&quot; as=\&quot;geometry\&quot;/&gt;&lt;/mxCell&gt;&lt;/root&gt;&lt;/mxGraphModel&gt;&lt;/diagram&gt;&lt;/mxfile&gt;&quot;,&quot;toolbar&quot;:&quot;pages zoom layers lightbox&quot;,&quot;page&quot;:0}"></div>
 <script type="text/javascript" src="https://app.diagrams.net/js/viewer-static.min.js"></script>
 </body>
 </html>
